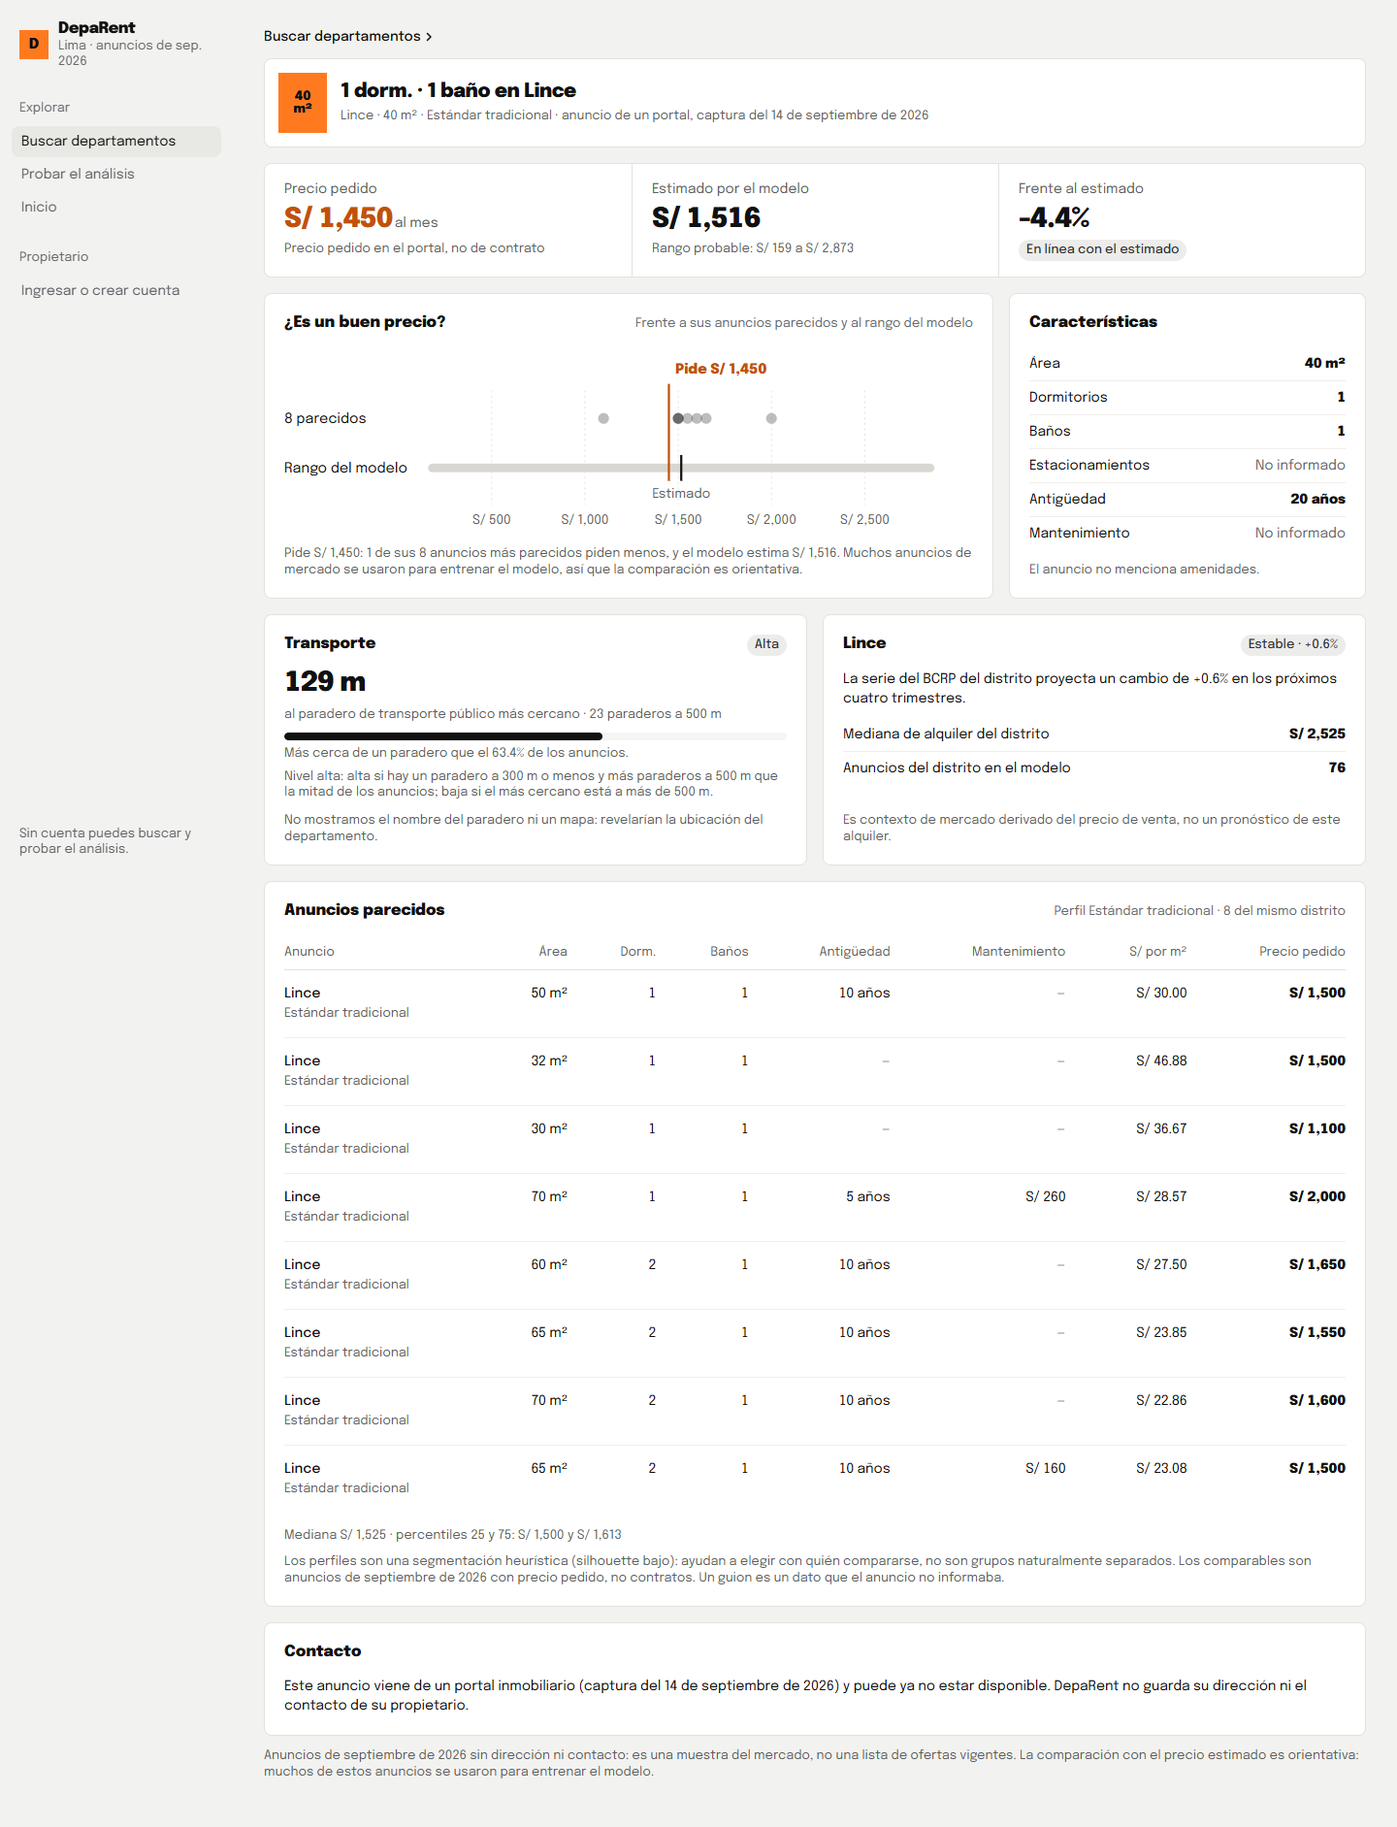
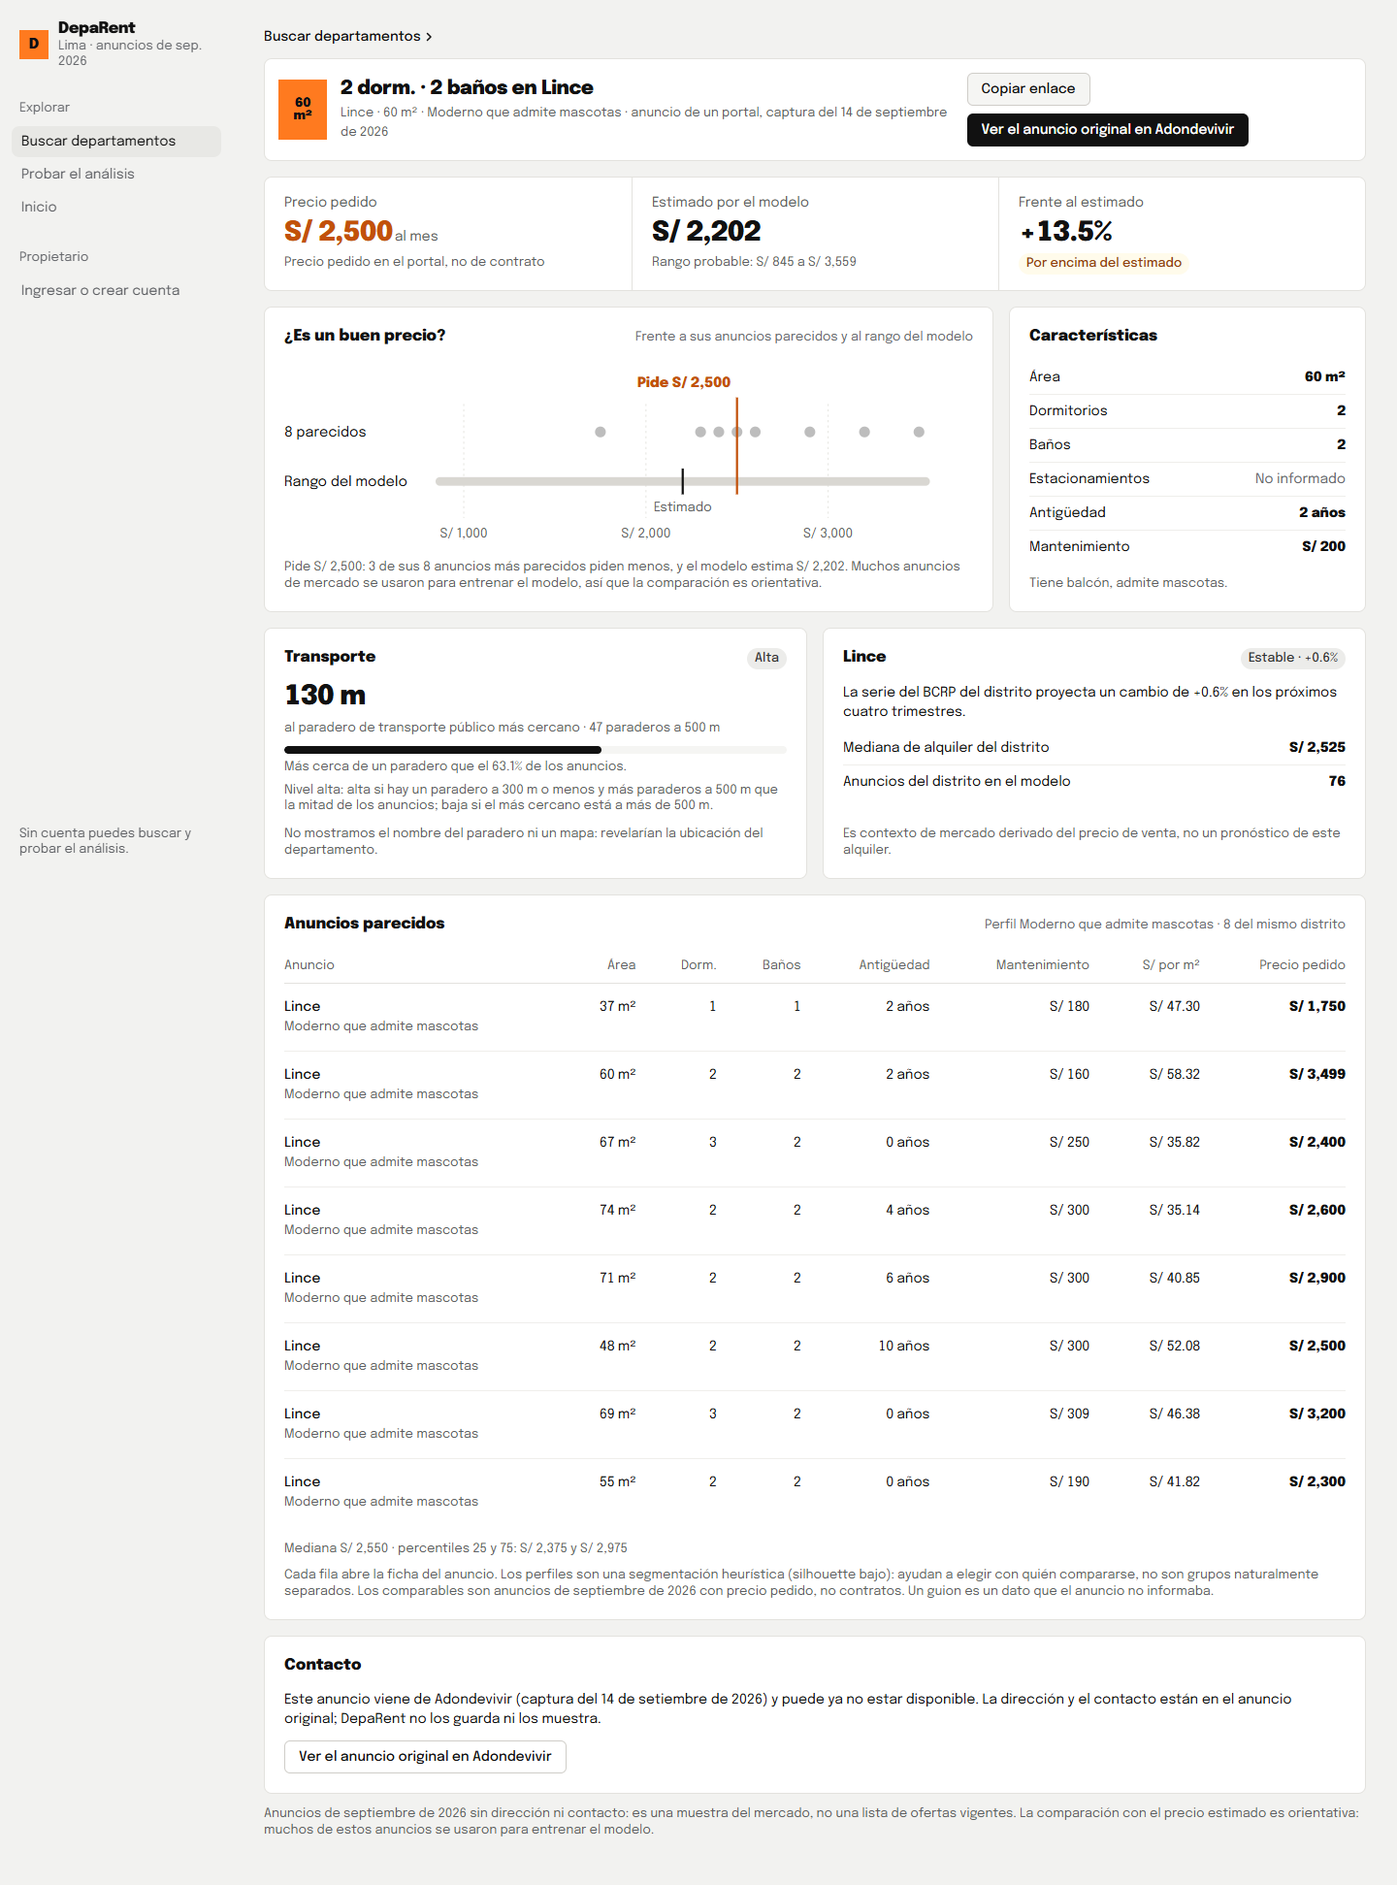
feat(week10): enlazar comparables a su ficha y al anuncio original
- Cada comparable abre la ficha de su anuncio, en el análisis y en la propia ficha.
- La ficha de un anuncio de mercado enlaza al original en Adondevivir o Urbania (solo https a esos portales, noopener noreferrer nofollow), con fecha de captura; la dirección sigue sin mostrarse en DepaRent.
- Botón Copiar enlace en la ficha, con respaldo cuando el portapapeles no da permiso.
- PRODUCT.md registra la decisión y que conviene confirmarla con el profesor. 43 pruebas.

diff --git a/deliveries/week10/frontend/js/anuncio.js b/deliveries/week10/frontend/js/anuncio.js
@@ -1,6 +1,6 @@
 import { llamar } from "./api.js";
 import { escala, panelComparables, ticks } from "./analisis.js";
-import { $, esc, num, pct, soles, titulo, conBoton, mensaje, ETIQUETAS_AMENIDAD } from "./util.js";
+import { $, esc, num, pct, soles, titulo, conBoton, mensaje, ETIQUETAS_AMENIDAD, enlazarFilas, copiarEnlace } from "./util.js";
 
 const banos = (n) => `${num(n)} ${n === 1 ? "baño" : "baños"}`;
 const fecha = (segundos) => new Date(segundos * 1000).toLocaleDateString("es-PE", { day: "numeric", month: "long", year: "numeric" });
@@ -21,7 +21,11 @@ export async function vistaAnuncio(lienzo, params, id) {
     <section class="panel object-head">
       <div class="cover" aria-hidden="true">${num(v.area_total)}<br>m²</div>
       <div><h1>${esc(nombre)}</h1><p class="meta">${esc(titulo(x.distrito))} · ${num(v.area_total)} m² · ${esc(x.perfil)} · ${origen}</p></div>
-      ${f.publicacion ? '<div class="title-actions"><a class="btn primary" href="#contacto" data-ir-contacto>Me interesa</a></div>' : ""}
+      <div class="title-actions">
+        <button class="btn" type="button" data-copiar>Copiar enlace</button>
+        ${f.original ? `<a class="btn primary" href="${esc(f.original.url)}" target="_blank" rel="noopener noreferrer nofollow">Ver el anuncio original en ${esc(f.original.portal)}</a>` : ""}
+        ${f.publicacion ? '<a class="btn primary" href="#contacto" data-ir-contacto>Me interesa</a>' : ""}
+      </div>
     </section>
     <div class="grid">
       <div class="kpis span-6">
@@ -81,12 +85,16 @@ export async function vistaAnuncio(lienzo, params, id) {
       <section class="panel span-6" id="contacto" aria-labelledby="t-contacto">
         <header><h2 id="t-contacto">${f.publicacion ? `Escríbele a ${esc(f.publicacion.propietario)}` : "Contacto"}</h2></header>
         ${f.publicacion ? formularioInteres(f.publicacion.propietario)
-          : `<p>Este anuncio viene de un portal inmobiliario (captura del 14 de septiembre de 2026) y puede ya no estar disponible.
-              DepaRent no guarda su dirección ni el contacto de su propietario.</p>`}
+          : f.original ? `<p>Este anuncio viene de ${esc(f.original.portal)} (captura del ${fecha(Date.parse(f.original.capturado + "T12:00:00") / 1000)}) y puede ya no estar disponible.
+              La dirección y el contacto están en el anuncio original; DepaRent no los guarda ni los muestra.</p>
+              <p style="margin-top:12px"><a class="btn" href="${esc(f.original.url)}" target="_blank" rel="noopener noreferrer nofollow">Ver el anuncio original en ${esc(f.original.portal)}</a></p>`
+          : "<p>Este anuncio viene de un portal inmobiliario y DepaRent no guarda su dirección ni el contacto de su propietario.</p>"}
       </section>
     </div>
     <p class="panel-note">${esc(f.aviso)}</p>`;
 
+  $("[data-copiar]", lienzo).addEventListener("click", (e) => copiarEnlace(e.currentTarget));
+  enlazarFilas(lienzo);
   $("[data-ir-contacto]", lienzo)?.addEventListener("click", (e) => {
     e.preventDefault();
     $("#contacto", lienzo).scrollIntoView({ block: "start" });

diff --git a/deliveries/week10/frontend/js/analisis.js b/deliveries/week10/frontend/js/analisis.js
@@ -1,5 +1,5 @@
 import { llamar } from "./api.js";
-import { $, $$, esc, num, pct, soles, titulo, conBoton, mensaje } from "./util.js";
+import { $, $$, esc, num, pct, soles, titulo, conBoton, mensaje, enlazarFilas } from "./util.js";
 
 const PESTANAS = [["resumen", "Resumen"], ["comparables", "Comparables"], ["acceso", "Accesibilidad"], ["tendencia", "Tendencia"], ["simulador", "Simular una mejora"]];
 
@@ -51,6 +51,7 @@ export function mostrarAnalisis(contenedor, a, opciones, acciones = {}) {
     conBoton(boton, "Publicando…", () => acciones.alPublicar(s)).catch((e) => mensaje($(".pub-msg", contenedor), e.message));
   }));
   activarSimulador(contenedor, a.vivienda, opciones);
+  enlazarFilas(contenedor);
 }
 
 /* ---------- Resumen ---------- */
@@ -171,8 +172,8 @@ export function panelComparables(c) {
     <header><h2 id="t-comp">Los 8 anuncios más parecidos</h2><span class="meta">Perfil ${esc(c.perfil.perfil)} · ${c.en_mismo_distrito} del mismo distrito</span></header>
     <div class="table-wrap"><table class="list-table">
       <thead><tr><th>Anuncio</th><th class="n">Área</th><th class="n">Dorm.</th><th class="n">Baños</th><th class="n">Antigüedad</th><th class="n">Mantenimiento</th><th class="n">S/ por m²</th><th class="n">Precio pedido</th></tr></thead>
-      <tbody>${c.comparables.map((x) => `<tr>
-        <td><span class="id">${esc(x.Distrito)}</span><span class="sub">${esc(x.Perfil)}</span></td>
+      <tbody>${c.comparables.map((x) => `<tr data-href="#/anuncio/${esc(x.anuncio_id)}">
+        <td><a class="id" href="#/anuncio/${esc(x.anuncio_id)}">${esc(x.Distrito)}</a><span class="sub">${esc(x.Perfil)}</span></td>
         <td class="n more" data-label="Área">${num(x["Área (m²)"])} m²</td>
         <td class="n more" data-label="Dorm.">${num(x.Dormitorios)}</td>
         <td class="n more" data-label="Baños">${num(x["Baños"])}</td>
@@ -182,7 +183,7 @@ export function panelComparables(c) {
         <td class="n key"><b>${soles(x["Precio pedido (S/)"])}</b></td></tr>`).join("")}</tbody>
     </table></div>
     <p class="list-foot"><span>Mediana ${soles(c.precio_mediana_soles)} · percentiles 25 y 75: ${soles(c.precio_p25_soles)} y ${soles(c.precio_p75_soles)}</span></p>
-    <p class="panel-note">${esc(c.aviso)} Un guion es un dato que el anuncio no informaba.</p>
+    <p class="panel-note">Cada fila abre la ficha del anuncio. ${esc(c.aviso)} Un guion es un dato que el anuncio no informaba.</p>
   </section>`;
 }
 

diff --git a/deliveries/week10/frontend/js/util.js b/deliveries/week10/frontend/js/util.js
@@ -41,3 +41,31 @@ export async function conBoton(boton, textoOcupado, tarea) {
     boton.textContent = original;
   }
 }
+
+// Filas de tabla que abren otra pantalla: la fila entera es el blanco del clic; el enlace de la primera celda sirve al teclado.
+export function enlazarFilas(raiz) {
+  raiz.querySelectorAll("tr[data-href]").forEach((tr) => tr.addEventListener("click", (e) => {
+    if (!e.target.closest("a")) location.hash = tr.dataset.href;
+  }));
+}
+
+// Copia el enlace de la pantalla actual y confirma en el mismo botón (sin ventanas emergentes).
+export async function copiarEnlace(boton) {
+  const original = boton.textContent;
+  let copiado = false;
+  try {
+    await navigator.clipboard.writeText(location.href);
+    copiado = true;
+  } catch {
+    // Sin permiso de portapapeles (página sin foco, http sin TLS): copia con una selección temporal.
+    const campo = Object.assign(document.createElement("textarea"), { value: location.href });
+    campo.setAttribute("readonly", "");
+    campo.style.cssText = "position:fixed;opacity:0;pointer-events:none";
+    document.body.append(campo);
+    campo.select();
+    copiado = document.execCommand("copy");
+    campo.remove();
+  }
+  boton.textContent = copiado ? "Enlace copiado" : "Copia la dirección del navegador";
+  setTimeout(() => { boton.textContent = original; }, 2000);
+}

diff --git a/deliveries/week10/code/api.py b/deliveries/week10/code/api.py
@@ -9,6 +9,7 @@ import json
 import math
 import os
 import re
+from urllib.parse import urlparse
 from typing import List, Optional
 
 import joblib
@@ -28,7 +29,7 @@ from escenarios import ADVERTENCIA, CAMBIABLES, comparar, verificar_modelo_conge
 from escenarios_precio import escenarios_publicacion
 from evidencia_distrital import evidencia_distrital
 from laboratorio_area import AVISO as AVISO_AREA, explorar_area
-from modelo import BINARY, LIMITS, ROOT, predecir, preparar
+from modelo import BINARY, LIMITS, ROOT, SOURCE, predecir, preparar
 from perfil_competitivo import ARCHIVO as ARCHIVO_PERFIL, asignar_perfil, comparables
 from tendencia import cargar_tendencias, tendencia_distrital
 
@@ -37,6 +38,9 @@ MODELO_PRECIO = joblib.load(ROOT / "models/modelo_docente.joblib")
 MODELO_PERFIL = joblib.load(ARCHIVO_PERFIL)
 DEMOS = json.loads((ROOT / "data/demo_casos.json").read_text(encoding="utf-8"))
 MERCADO = construir_mercado(MODELO_PRECIO, MODELO_PERFIL)
+# Enlace al anuncio original, solo para la ficha de los anuncios de mercado (decisión del equipo).
+ORIGINALES = pd.read_csv(SOURCE, usecols=["url", "fuente", "fecha_scraping"], low_memory=False)
+PORTALES = {"www.adondevivir.com": "Adondevivir", "adondevivir.com": "Adondevivir", "urbania.pe": "Urbania", "www.urbania.pe": "Urbania"}
 FRONTEND = ROOT / "frontend"
 
 app = FastAPI(title="DepaRent API", version="0.10")
@@ -363,12 +367,18 @@ def ver_anuncio(anuncio_id: str, conexion=Depends(base_datos)):
     distancia = float(fila["dist_paradero_min_m"])
     mas_lejos = 100 * (1 - np.searchsorted(red["ref_distancia"], distancia, side="right") / len(red["ref_distancia"]))
     tendencia = tendencia_distrital(vivienda["distrito_norm"])
-    publicacion = None
+    publicacion, original = None, None
+    if not propio:
+        fila_original = ORIGINALES.iloc[int(anuncio_id[1:])]
+        enlace = urlparse(str(fila_original["url"]))
+        # Solo enlaces https a los portales de origen; cualquier otro valor no se muestra.
+        if enlace.scheme == "https" and enlace.netloc in PORTALES:
+            original = {"url": enlace.geturl(), "portal": PORTALES[enlace.netloc], "capturado": str(fila_original["fecha_scraping"])[:10]}
     if propio:
         d = cuentas.publicado(conexion, int(anuncio_id[1:]))
         publicacion = {"propietario": d["propietario"], "escenario": d["publicacion"]["escenario"], "desde": d["publicacion"]["desde"]}
     return limpiar({
-        "anuncio": formatear(fila), "vivienda": vivienda, "publicacion": publicacion,
+        "anuncio": formatear(fila), "vivienda": vivienda, "publicacion": publicacion, "original": original,
         "precio": predecir(vivienda, MODELO_PRECIO), "perfil": competencia,
         # Sin nombres de paraderos ni mapa: revelarían la ubicación del anuncio original.
         "acceso": {"dist_paradero_min_m": distancia, "paraderos_500m": int(fila["paraderos_500m"]),

diff --git a/deliveries/week10/code/test_cuentas_busqueda.py b/deliveries/week10/code/test_cuentas_busqueda.py
@@ -163,11 +163,24 @@ class FichaAnuncioTest(unittest.TestCase):
         self.assertIsNone(f["publicacion"])
         self.assertEqual(f["precio"]["precio_estimado_soles"], f["anuncio"]["precio_estimado_soles"])
         self.assertEqual(len(f["perfil"]["comparables"]), 8)
-        texto = json.dumps(f)
+        # El enlace al original va solo en "original"; dirección, coordenadas y texto del anuncio nunca.
+        texto = json.dumps({k: v for k, v in f.items() if k != "original"})
         for privado in ("direccion", "latitud", "longitud", "url", "descripcion", "paradero_cercano_nombre"):
             self.assertNotIn(privado, texto)
+        self.assertEqual(set(f["original"]), {"url", "portal", "capturado"})
         self.assertEqual(self.cliente.post(f"/api/anuncios/{anuncio_id}/interes",
                                            json={"nombre": "Ana", "email": "ana@deparent.test", "mensaje": "Me interesa"}).status_code, 422)
+
+    def test_comparables_llevan_a_su_ficha_y_el_original_solo_va_a_los_portales(self):
+        f = self.cliente.get(f"/api/anuncios/{MERCADO.iloc[100]['id']}").json()
+        self.assertIn(f["original"]["portal"], {"Adondevivir", "Urbania"})
+        self.assertTrue(f["original"]["url"].startswith(("https://www.adondevivir.com/", "https://urbania.pe/")))
+        for c in f["perfil"]["comparables"]:
+            self.assertEqual(self.cliente.get(f"/api/anuncios/{c['anuncio_id']}").status_code, 200, c["anuncio_id"])
+        analisis = self.cliente.post("/api/analizar", json={"vivienda": DEMOS[1]["entrada"]}).json()
+        ids = [c["anuncio_id"] for c in analisis["perfil"]["comparables"]]
+        self.assertEqual(len(set(ids)), 8)
+        self.assertTrue(set(ids) <= set(MERCADO["id"]))
 
     def test_ids_invalidos_o_inexistentes_dan_404(self):
         for anuncio_id in ("m99999999", "x1", "d99999", "1"):
@@ -185,6 +198,7 @@ class FichaAnuncioTest(unittest.TestCase):
         self.cliente.post(f"/api/departamentos/{depto_id}/publicacion", headers=dueno, json={"precio_soles": 2100, "escenario": "Equilibrado"})
         ficha = self.cliente.get(f"/api/anuncios/d{depto_id}").json()
         self.assertEqual(ficha["publicacion"]["propietario"], "Propietaria")
+        self.assertIsNone(ficha["original"])
         self.assertNotIn("ficha.dueno@deparent.test", json.dumps(ficha))
         self.assertEqual(self.cliente.post(f"/api/anuncios/d{depto_id}/interes", json={**mensaje, "email": "sin-arroba"}).status_code, 422)
         self.assertEqual(self.cliente.post(f"/api/anuncios/d{depto_id}/interes", json=mensaje).status_code, 200)

diff --git a/deliveries/week10/code/perfil_competitivo.py b/deliveries/week10/code/perfil_competitivo.py
@@ -107,7 +107,11 @@ def comparables(values, artifact, k=8, excluir=None):
     if excluir is not None:
         candidatos = candidatos[candidatos["grupo"] != ref.loc[excluir, "grupo"]]
     elegidos = (candidatos.sort_values(["prioridad", "distancia"]).drop_duplicates("grupo").head(k))
-    tabla = [{"Distrito": r.distrito_norm.title(), "Perfil": artifact["nombres"][int(r.cluster)],
+    # La búsqueda guarda cada posible inmueble con el id de su primer anuncio ("m" + fila); el comparable apunta a esa ficha.
+    if "_primero" not in artifact:
+        artifact["_primero"] = ref.reset_index().groupby("grupo")["index"].min()
+    tabla = [{"anuncio_id": f"m{int(artifact['_primero'][r.grupo])}",
+              "Distrito": r.distrito_norm.title(), "Perfil": artifact["nombres"][int(r.cluster)],
               "Área (m²)": r.area_total, "Dormitorios": r.dormitorios, "Baños": r.banos,
               "Antigüedad": r.antiguedad, "Mantenimiento (S/)": r.mantenimiento,
               "Precio pedido (S/)": r.precio_soles, "S/ por m²": round(r.precio_m2, 2),

diff --git a/deliveries/week10/README.md b/deliveries/week10/README.md
@@ -7,7 +7,7 @@ uno a su medida. El prototipo web tiene tres recorridos:
 |---|---|---|
 | Inicio | `#/` | Página informativa: problema, qué buscamos, cómo funciona, equipo y límites |
 | Propietario | `#/ingresar` → `#/mis-departamentos` | Registro e inicio de sesión; lista de sus departamentos (o invitación a agregar el primero); análisis de cada uno con los 6 componentes; publicación con el precio elegido |
-| Inquilino | `#/buscar` | Búsqueda por distrito, presupuesto, dormitorios, baños, área, amenidades y cercanía a paraderos, sobre 3,013 anuncios de mercado y los departamentos publicados en DepaRent; cada resultado indica si su precio está por debajo, en línea o por encima del estimado y abre su ficha (`#/anuncio/:id`): precio frente al estimado, anuncios parecidos, transporte y, si está publicado en DepaRent, un formulario «Me interesa» que llega al propietario |
+| Inquilino | `#/buscar` | Búsqueda por distrito, presupuesto, dormitorios, baños, área, amenidades y cercanía a paraderos, sobre 3,013 anuncios de mercado y los departamentos publicados en DepaRent; cada resultado indica si su precio está por debajo, en línea o por encima del estimado y abre su ficha (`#/anuncio/:id`, con «Copiar enlace»): precio frente al estimado, anuncios parecidos (cada uno abre su ficha), transporte y, según el origen, el enlace al anuncio original en Adondevivir o Urbania o un formulario «Me interesa» que llega al propietario |
 | Prueba rápida | `#/probar` | El análisis completo sin crear cuenta |
 
 Los seis componentes analíticos:
@@ -64,7 +64,7 @@ con Python, como Render (ver `deployed_url.txt`). `code/app.py` (Streamlit) se c
 | `escenarios.py`, `laboratorio_area.py` | Modelo 6 y exploración del área (del profesor) |
 | `evidencia_distrital.py`, `ayuda_interfaz.py` | Error por distrito y textos (del profesor) |
 | `app.py` | Versión Streamlit del profesor, como respaldo |
-| `test_*.py` | Pruebas (42) |
+| `test_*.py` | Pruebas (43) |
 
 ## Requisitos
 - Python 3.12 o 3.13 y conexión a internet la primera vez (para instalar dependencias; el mapa usa teselas de OpenStreetMap).
@@ -104,4 +104,4 @@ _Pendiente._ Pasos en `deployed_url.txt`. Requiere conectar el repositorio de Gi
 ## Credenciales y datos
 No se requieren variables de entorno ni credenciales para el uso local. Variables opcionales: `DEPARENT_DB` (ruta de
 la base SQLite) y, en despliegue, `DEPARENT_ORIGENES` (dominios que pueden llamar a la API). En un servicio gratuito
-como Render el disco no es persistente: las cuentas se borran al reiniciar, salvo que se use un disco o una base externa. Los comparables no muestran dirección, coordenadas, URL ni descripción de los anuncios.
+como Render el disco no es persistente: las cuentas se borran al reiniciar, salvo que se use un disco o una base externa. Ninguna pantalla muestra dirección, coordenadas ni descripción de los anuncios; solo la ficha de un anuncio de mercado enlaza a su original en Adondevivir o Urbania (ver `PRODUCT.md`).

diff --git a/deliveries/week10/PRODUCT.md b/deliveries/week10/PRODUCT.md
@@ -29,7 +29,10 @@ Combina seis componentes con datos reales de Lima que un portal de anuncios no m
 ## Constraints
 
 - Son precios pedidos en anuncios de una sola captura, no contratos ni tasaciones; la interfaz lo dice donde muestra precios.
-- Nunca mostrar dirección, coordenadas exactas, URL ni texto de los anuncios originales.
+- Nunca mostrar dirección, coordenadas exactas ni texto de los anuncios originales.
+- Enlace al anuncio original: solo en la ficha de un anuncio de mercado, por decisión del equipo (24-oct-2026),
+  con el portal y la fecha de captura, `rel="noopener noreferrer nofollow"` y solo hacia Adondevivir o Urbania por https.
+  La guía del profesor pide no proyectar las columnas sensibles de los originales: conviene confirmarlo con él.
 - Español de Perú, soles con formato `S/ 3,656`.
 - Las vistas y rutas existentes se conservan: inicio, ingreso y registro, mis departamentos, detalle con análisis y publicación, búsqueda, prueba sin cuenta.
 
